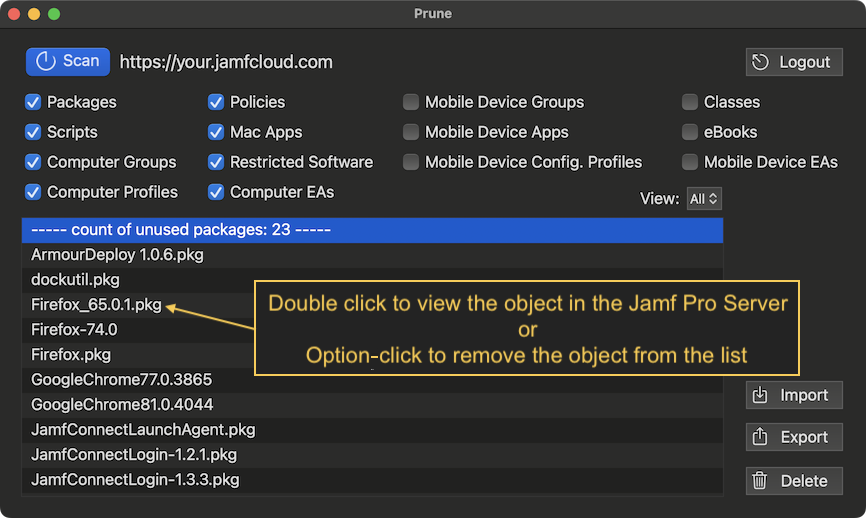
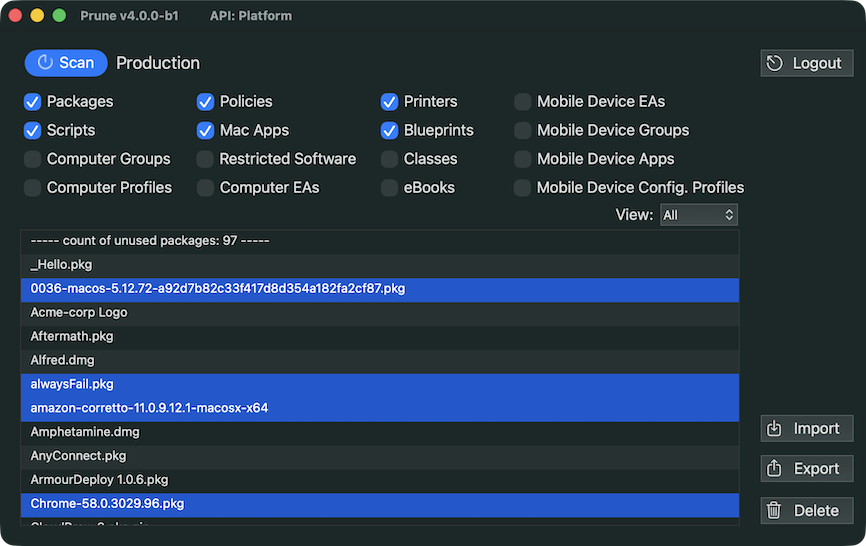
update
new version updates

diff --git a/README.md b/README.md
@@ -19,8 +19,8 @@
 
 1. **Scan**: Prune connects to your Jamf Pro server and scans for unused items across multiple object types.
 2. **Review**: The app generates a list of potentially unused items that you can review and edit.
-3. **Edit**: Remove items from the deletion list or open them directly on your Jamf server.
-4. **Delete**: Once you're confident, delete the unused items to clean up your server.
+3. **Select**: Select items to remove from the server. Cmd+A (once at least one item is selected) selects all. Shift and Cmd+click work as expected to select multiple items. Option+click removes an item from the list without deleting it from Jamf Pro.
+4. **Delete**: Once you're confident, delete the selected unused items to clean up your server.
 
 > **⚠ Error Handling**: If the server indicates an error while reading an object, it will be logged and you'll receive an alert indicating the results may be inaccurate.
 
@@ -30,7 +30,7 @@
 
 Once the list of unused items is generated, you can edit it directly within the app:
 
-- **Remove an item from the deletion list**: Option-click the item to keep it (it won't be deleted from the server)
+- **Remove an item from the deletion list**: Option-click the item to remove it from the list keep it in Jamf Pro
 - **Review an item on the server**: Double-click any item to open it directly on your Jamf server (you may need to authenticate first)
 
 ![Edit Interface](./images/edit.png "Editing and Review Interface")
@@ -57,6 +57,7 @@ Once the list of unused items is generated, you can edit it directly within the 
    - Review the generated list of unused items
    - **Option-click** any item to remove it from the deletion list (keeps it on your server)
    - **Double-click** any item to open it on your Jamf server for detailed review
+   - **Select** the object(s) to be deleted. You can use cmd+A, once an object has been selected, to select all objects in the list. The standard selection keys, cmd and shift, can be used while clicking to select multiple objects.
 
 5. **Delete Items** (Optional)
    - Click **Delete** to remove the listed items from your server
@@ -69,16 +70,44 @@ Once the list of unused items is generated, you can edit it directly within the 
 
 ### ⚠ Important Notes
 
-- **Blueprints are not scanned**: Groups used only in blueprints will show as unused since blueprints aren't analyzed.
+- **Blueprints**: Blueprints are only scanned when using the Platform API. When using the Jamf Pro API groups used only in blueprints will show as unused since blueprints aren't analyzed.
 
 ---
 
 <a id="setting-up-api-client-credentials"></a>
-## 🔑 Setting Up API Client Credentials
+## 🔑 Setting Up API Client Credentials / Integration
 
-API Client Credentials are the recommended method for authenticating with your Jamf Pro server. They provide better security and are more suitable for programmatic access than user accounts.
+API Client Credentials (Jamf Pro) or an Integration (Platform API) are the recommended methods for authenticating with Prune. They provide better security and are more suitable for programmatic access than user accounts.
 
-### Step-by-Step Setup
+### Complete List of Required Privileges for Full Functionality
+
+If you want to use Prune with all available object types, grant the following privileges when creating your API role or integration:
+
+| Object Type | Required Privileges |
+|------------|---------------------|
+| **Classes** | Read Classes, Delete Classes |
+| **Computer Extension Attributes (EAs)** | Read Computer Extension Attributes, Delete Computer Extension Attributes, Read Patch Software Titles |
+| **Computer Groups** | Read Smart Computer Groups, Delete Smart Computer Groups, Read Static Computer Groups, Delete Static Computer Groups, Read Patch Policies, Read Patch Management Software Titles, Read Blueprints |
+| **Computer Objects (General)** | Read Computer PreStage Enrollments |
+| **Computer Profiles** | Read macOS Configuration Profiles, Delete macOS Configuration Profiles |
+| **eBooks** | Read eBooks, Delete eBooks |
+| **Mac Apps** | Read Mac Applications, Delete Mac Applications |
+| **Mobile Device Apps** | Read Mobile Device Applications, Delete Mobile Device Applications |
+| **Mobile Device Configuration Profiles** | Read iOS Configuration Profiles, Delete iOS Configuration Profiles |
+| **Mobile Device Extension Attributes (EAs)** | Read Mobile Device Extension Attributes, Delete Mobile Device Extension Attributes |
+| **Mobile Device Groups** | Read Smart Mobile Device Groups, Delete Smart Mobile Device Groups, Read Static Mobile Device Groups, Delete Static Mobile Device Groups, Read Blueprints |
+| **Mobile Device Objects (General)** | Read Mobile Device PreStage Enrollments |
+| **Packages** | Read Packages, Delete Packages, Read Patch Management Software Titles |
+| **Policies** | Read Policies, Delete Policies |
+| **Printers** | Read Printers, Delete Printers |
+| **Restricted Software** | Read Restricted Software, Delete Restricted Software |
+| **Scripts** | Read Scripts, Delete Scripts |
+
+> **Tip**: You can create separate roles for different use cases (e.g., one for read-only scanning and one for full delete access) and assign them to different clients as needed.
+
+---
+
+### Step-by-Step Setup — Jamf Pro API Client
 
 1. **Log into Jamf Pro**
    - Open your Jamf Pro web interface
@@ -94,43 +123,16 @@ API Client Credentials are the recommended method for authenticating with your J
      - **Display Name**: Enter a descriptive name (e.g., "Prune.app - Read & Delete Objects")
      - **Privileges**: Choose the appropriate privileges based on your needs:
        - **For read-only access** (scanning only): Grant Read permissions for all object types you want to scan
-       - **For full functionality** (scanning and deleting): Grant both Read and Delete permissions for the object types you want to manage
-   
-   #### Complete List of Required Privileges for Full Functionality
-   
-   If you want to use Prune with all available object types, you'll need to grant the following privileges in your API role:
-   
-   | Object Type | Required Privileges |
-   |------------|---------------------|
-   | **Classes** | Read Classes, Delete Classes |
-   | **Computer Extension Attributes (EAs)** | Read Computer Extension Attributes, Delete Computer Extension Attributes, Read Patch Software Titles |
-   | **Computer Groups** | Read Smart Computer Groups, Delete Smart Computer Groups, Read Static Computer Groups, Delete Static Computer Groups, Read Patch Policies, Read Patch Management Software Titles |
-   | **Computer Objects (General)** | Read Computer PreStage Enrollments |
-   | **Computer Profiles** | Read macOS Configuration Profiles, Delete macOS Configuration Profiles |
-   | **eBooks** | Read eBooks, Delete eBooks |
-   | **Mac Apps** | Read Mac Applications, Delete Mac Applications |
-   | **Mobile Device Apps** | Read Mobile Device Applications, Delete Mobile Device Applications |
-   | **Mobile Device Configuration Profiles** | Read iOS Configuration Profiles, Delete iOS Configuration Profiles |
-   | **Mobile Device Extension Attributes (EAs)** | Read Mobile Device Extension Attributes, Delete Mobile Device Extension Attributes |
-   | **Mobile Device Groups** | Read Smart Mobile Device Groups, Delete Smart Mobile Device Groups, Read Static Mobile Device Groups, Delete Static Mobile Device Groups |
-   | **Mobile Device Objects (General)** | Read Mobile Device PreStage Enrollments |
-   | **Packages** | Read Packages, Delete Packages, Read Patch Management Software Titles |
-   | **Policies** | Read Policies, Delete Policies |
-   | **Printers** | Read Printers, Delete Printers |
-   | **Restricted Software** | Read Restricted Software, Delete Restricted Software |
-   | **Scripts** | Read Scripts, Delete Scripts |
-   
-   > **Tip**: You can create separate API roles for different use cases (e.g., one for read-only scanning and one for full delete access) and assign them to different API clients as needed.
-        
+       - **For full functionality** (scanning and deleting): Grant both Read and Delete permissions for the object types you want to manage — see the table above
 
 4. **Create a New API Client**
    - Navigate back to the **API roles and clients** section in Jamf Pro
    - On the **API Clients** tab, click the **New** button (+) to create a new API client
-    - Fill in the required information:
-        - **Display Name**: Enter a descriptive name (e.g., "Prune.app")
-        - **API roles**: Select the API role you created in the previous step
-    - Enable API client: Click the **Enable API client** button
-    - Click **Save** to create the client
+   - Fill in the required information:
+     - **Display Name**: Enter a descriptive name (e.g., "Prune.app")
+     - **API roles**: Select the API role you created in the previous step
+   - Enable API client: Click the **Enable API client** button
+   - Click **Save** to create the client
 
 5. **Generate Client Secret and Copy Credentials**
    - Click **Generate client secret** > **Create secret**
@@ -139,8 +141,43 @@ API Client Credentials are the recommended method for authenticating with your J
    - Store these credentials securely (consider using a password manager)
 
 6. **Use in Prune**
-   - When connecting in Prune, check the box for **Use API client**:
-     - Paste your **Client ID** and **Client Secret** into the relevant fields
+   - In Prune's login window, select **Pro** as the API type
+   - Paste your **Client ID** and **Client Secret** into the relevant fields
+
+---
+
+### Step-by-Step Setup — Platform API Integration
+
+The Platform API option provides access to additional features such as Blueprints. Integrations are created and managed at [account.jamf.com](https://account.jamf.com).
+
+1. **Log into account.jamf.com**
+   - Sign in with your Jamf account credentials
+
+2. **Navigate to Integrations**
+   - Select **Integrations** from the left-hand navigation
+
+3. **Create a New Integration**
+   - Click **+ Create Integration**
+   - Fill in the required information:
+     - **Name**: Enter a descriptive name (e.g., "Prune.app")
+     - **Description**: Optionally describe the integration's purpose
+     - **Region**: Select the region that matches your Jamf tenant
+     - **Tenants**: Select the tenant(s) this integration should have access to — one tenant per integration is recommended
+     - **Permissions**: Select the permissions required for the object types you want to manage - see the table above
+   - Click **Create Integration**
+
+4. **Copy Credentials**
+   - After creation, copy the **Client ID** and **Client Secret** immediately
+   - **Important**: The Client Secret will not be displayed again — store it securely
+
+5. **Find Your Tenant ID**
+   - In the integration's **Details** section, locate the **Tenants** field
+   - Click the name of your tenant, the id is copied to your clipboard - you will need this when logging in with Prune
+
+6. **Use in Prune**
+   - In Prune's login window, select **Platform** as the API type
+   - If you have existing servers already configured selet Add Integration... from the Integration dropdown
+   - Paste your **Tenant ID**, **Client ID**, and **Client Secret** into the relevant fields
 
 ---
 
@@ -152,7 +189,7 @@ Prune analyzes each object type by checking specific usage locations in your Jam
 |------------|------------------------|
 | **Packages** | Checked for usage in policies, patch policies, and computer prestages |
 | **Scripts** | Checked for usage in policies |
-| **Computer Groups** | Checked for usage in policies, computer configuration profiles, computer groups, eBooks, restricted software, advanced searches, app installers, and enabled state |
+| **Computer Groups** | Checked for usage in blueprints (Platform API only), policies, computer configuration profiles, computer groups, eBooks, restricted software, advanced searches, app installers, and enabled state |
 | **Computer Profiles** | Checked for scope and usage in computer prestages |
 | **Policies** | Checked for scope |
 | **Printers** | Checked for usage in policies and macOS configuration profiles |
@@ -160,7 +197,7 @@ Prune analyzes each object type by checking specific usage locations in your Jam
 | **Restricted Software** | Checked for scope of computer groups |
 | **Computer Extension Attributes** | Checked for scope of computer groups, advanced searches (including display tab), and enabled state |
 | **eBooks** | Checked for scope |
-| **Mobile Device Groups** | Checked for usage in mobile device apps, mobile device configuration profiles, mobile device groups, eBooks, and classes |
+| **Mobile Device Groups** | Checked for usage in blueprints (Platform API only), mobile device apps, mobile device configuration profiles, mobile device groups, eBooks, and classes |
 | **Mobile Device Profiles** | Checked for scope |
 | **Classes** | Checked for scope (only looks for students/student groups/mobile device assignments) |
 | **Mobile Device Extension Attributes** | Checked for scope of mobile device groups and advanced searches |

diff --git a/CHANGELOG.md b/CHANGELOG.md
@@ -3,6 +3,7 @@
 ### v4.0.0 (2026-07-22)
 - Add Platform API support.
 - Add blueprints scan for computer and mobile device groups.
+- Delete workflow changed. Now you select (shift and cmd keys support) what you want to delete rather than filtering the list and delete what’s left.
 
 ### v3.5.3 (2026-05-07)
 - Correct premissions required for packages and computer groups in the readme.
